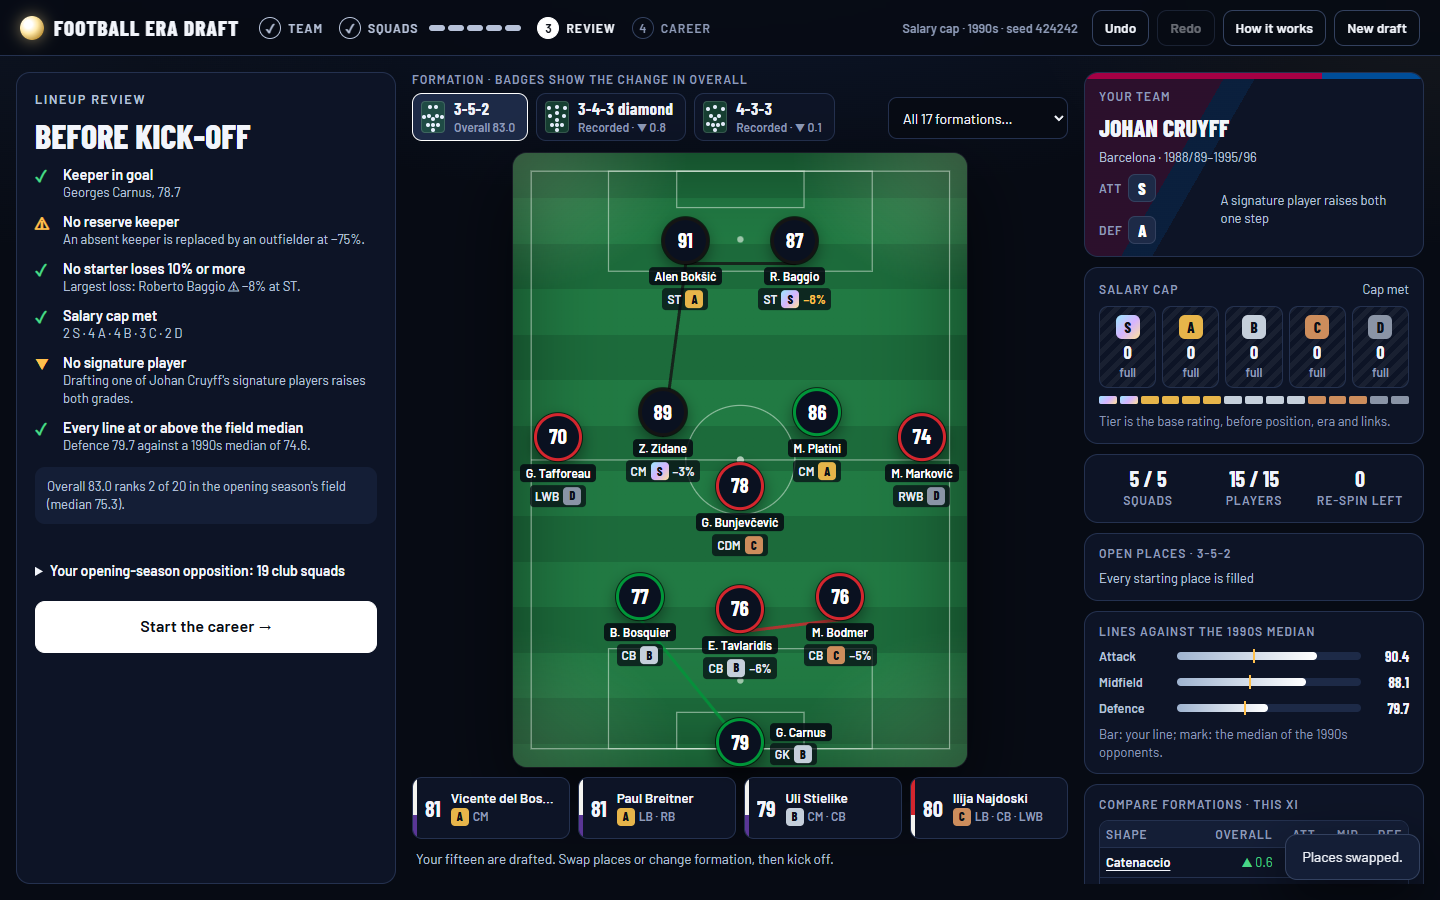
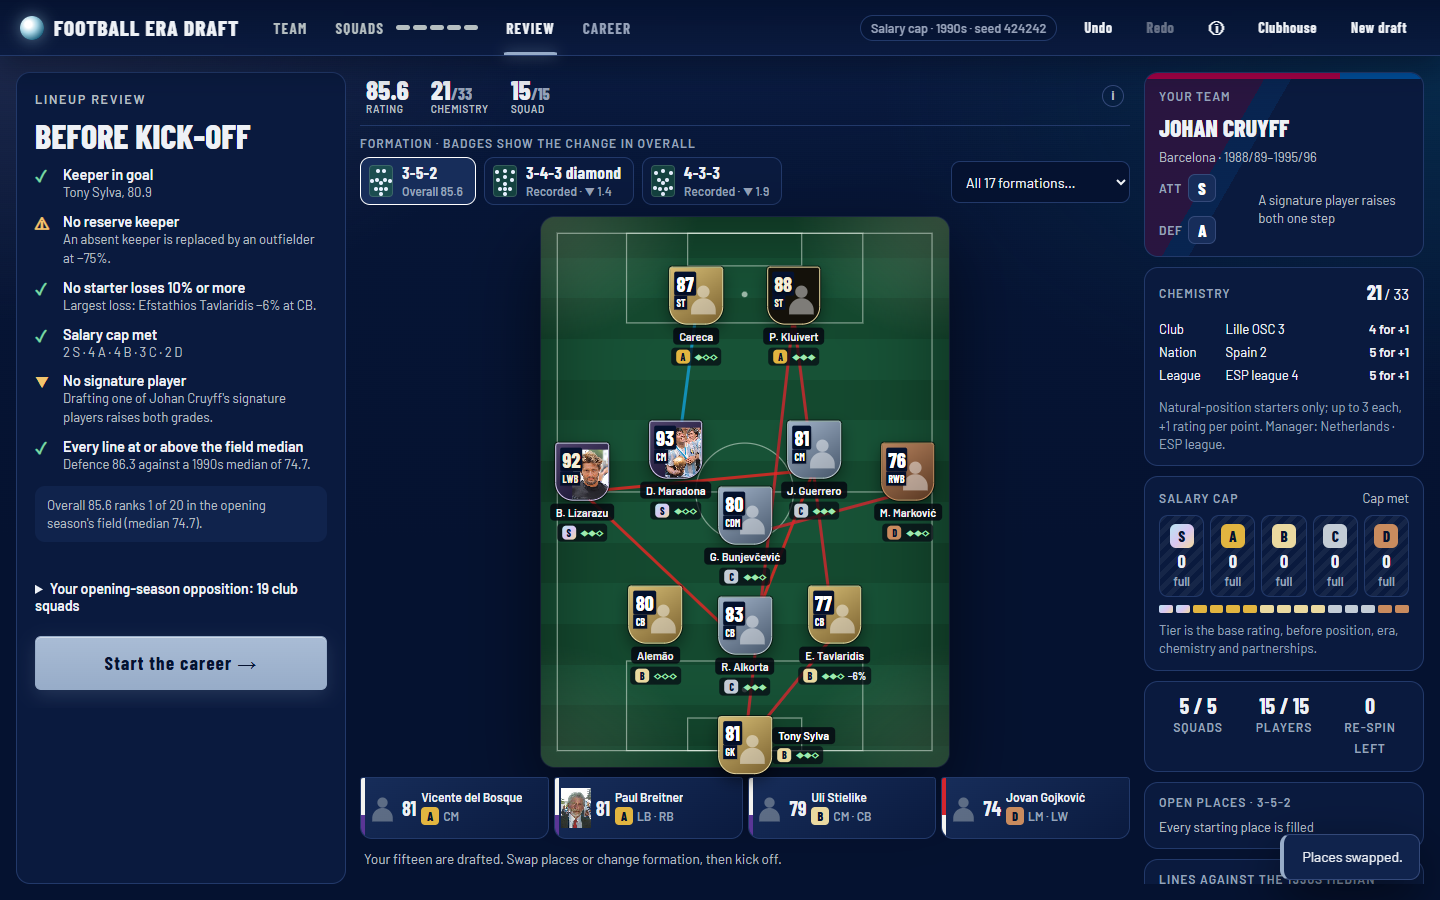
Add mode menus and the full-screen Clubhouse with browser coverage

diff --git a/app/ui/lobby.js b/app/ui/lobby.js
@@ -17,12 +17,14 @@ export function intro() {
   const { G, D, cap } = U, w = wk();
   const cards = ART.filter(([p, k]) => G.cards[k]?.some(c => c.p === p))
     .map(([p, k, a], i) => `<div class="fan" style="--a:${a}deg;--i:${i}">${vcard(hydrate(G, { k, p }))}</div>`).join('');
-  return `<section class="land">
-    <div class="land-copy">
-      <p class="eyebrow">A draft through eight decades</p>
-      <h1>Build an<br>era XI.</h1>
-      <p class="lede">Choose a manager at one of his clubs. Draw five historical squads, take three players from each and set your formation as the draft unfolds. Then lead your club through the decade in its real league, chasing cups and earning the board's trust.</p>
-      <form id="start-form" class="start" novalidate>
+  return `<section class="land mode-hero"><div class="land-copy"><p class="eyebrow">Football Era Draft · 1950—2020</p><h1>Greatness.<br>Across eras.</h1><p class="lede">Your manager. Your fifteen. A decade to make history.</p><p class="small">Draft football's past into your next great team.</p></div><div class="land-art" aria-hidden="true" inert><div class="land-pitch">${pitch(G.formations['4-3-3'].slots.map(([s,x,y])=>({s,x,y})),[],{mode:'view',sm:true})}</div><div class="fans">${cards}</div></div></section>
+  <section class="mode-menu" aria-label="Choose a mode">
+    <button class="mode-tile mode-career" id="mode-career" type="button"><span class="eyebrow">01 · The long game</span><strong>Career</strong><span>Choose your era. Build a club. Chase the decade.</span><b aria-hidden="true">↗</b></button>
+    <button class="mode-tile mode-gauntlet" id="mode-gauntlet" type="button"><span class="eyebrow">02 · Survive the eras</span><strong>Era Gauntlet</strong><span>Four rounds. One boss. A new decade awaits.</span><b aria-hidden="true">↗</b></button>
+    <button class="mode-tile mode-weekly" id="weekly" type="button"><span class="eyebrow">03 · ${esc(w.id)}</span><strong>Weekly</strong><span>${w.D}s · One seed. Your choices.</span><b aria-hidden="true">↗</b></button>
+    <button class="mode-tile mode-clubhouse" data-club-open="home" type="button"><span class="eyebrow">04 · Your football home</span><strong>Clubhouse</strong><span>Build freely. Collect cards. Solve daily puzzles.</span><b aria-hidden="true">↗</b></button>
+  </section>
+  <details class="career-setup" id="career-setup" ${U.setup ? 'open' : ''}><summary>Career &amp; Gauntlet setup <span>Decade · Rules · Seed</span></summary><div class="setup-body"><form id="start-form" class="start" novalidate>
         <fieldset class="eras"><legend class="lbl">Career decade · your league and rivals come from here</legend>
           <div class="era-tools"><button id="random-decade" type="button" class="btn q sm" data-era="random" aria-pressed="${D === 'random'}">Random decade</button><small class="small">${D === 'random' ? 'Your seed chooses the decade.' : 'Choose an era or let the seed decide.'}</small></div>
           <div class="tiles">${DECADES.map(d => `<button type="button" class="tile" data-era="${d}" aria-pressed="${D === d}" style="--era:var(--era-${d})"><b>${d}s</b><small>${ERA[d]}</small></button>`).join('')}</div>
@@ -36,21 +38,11 @@ export function intro() {
           <button class="btn big" type="submit">Enter the draft →</button>
         </div>
       </form>
-    </div>
-    <div class="land-art" aria-hidden="true" inert><div class="land-pitch">${pitch(G.formations['4-3-3'].slots.map(([s, x, y]) => ({ s, x, y })), [], { mode: 'view', sm: true })}</div><div class="fans">${cards}</div></div>
-  </section>
   <section class="weekly gauntlet-entry" aria-label="Era Gauntlet"><div><p class="lbl">Era Gauntlet · a roguelike run</p><p class="wk">Draft, then survive decade after decade</p>
     <p class="small">Draft fifteen from the decades near your map's first stop, then play four six-match rounds and a two-legged boss in every decade, with rewards, transfers and board patience between. Uses the rules and seed above.</p></div>
     <div class="row wrap"><label class="field"><span class="lbl">Map</span><select id="gauntlet-map">${Object.entries(MAPS).map(([k, m]) => `<option value="${k}" ${k === 'reverse' ? 'selected' : ''}>${esc(m.nm)} · ${m.D[0]}s first · draft ${Math.max(1950, m.D[0] - POOL)}s–${Math.min(2020, m.D[0] + POOL)}s</option>`).join('')}</select></label>
     <button class="btn" id="gauntlet-start" type="button">Start the Gauntlet draft →</button></div></section>
-  <section class="weekly" aria-label="Weekly challenge"><div><p class="lbl">This week · ${esc(w.id)}</p><p class="wk">${w.D}s season · one seed for everyone</p>
-    <p class="small">Same managers and first squad for every player this week, under Salary cap. Your picks steer which clubs follow.</p></div>
-    <button class="btn q" id="weekly" type="button">Play the weekly challenge</button></section>
-  <section class="club-entry" aria-label="Explore more football"><div><p class="eyebrow">Beyond the draft</p><h2>Your football clubhouse</h2><p class="small">Free squad building, daily puzzles and a personal history across the eras.</p></div><div class="row wrap"><button class="btn q sm" type="button" data-club-open="sandbox">Sandbox</button><button class="btn q sm" type="button" data-club-open="database">Player database</button><button class="btn q sm" type="button" data-club-open="minis">Mini-games</button><button class="btn q sm" type="button" data-club-open="weekly">Weekly archive</button><button class="btn sm" type="button" data-club-open="home">Open clubhouse</button></div></section>
-  <ol class="how" aria-label="How a draft works"><li><b>Team</b><span>A manager at one of his clubs sets grades and signature players.</span></li>
-    <li><b>Five squads</b><span>Three players from each historical club squad, inside the salary cap.</span></li>
-    <li><b>Lineup</b><span>Any formation, any placement; ratings follow each player's position fit.</span></li>
-    <li><b>Career</b><span>Real league seasons and cup races across the decade, with transfer windows between halves.</span></li></ol>
+  </div></details>
   <p class="replay"><label>Have a saved replay? <input id="import-replay" type="file" accept="application/json,.json"></label></p>`;
 }
 

diff --git a/app/ui/clubhouse.js b/app/ui/clubhouse.js
@@ -44,9 +44,9 @@ export function mountClubhouse(U, { notice, weekly }) {
   const current = () => mini ? P.sessions[mini] : null;
 
   function home() {
-    const t=totals(P), ach=achievements(P);
+    const t=totals(P), ach=achievements(P), unlocked=ach.filter(a=>a.unlocked).length;
     return `${top('Build freely, explore the archive and keep your football history. No account required.')}<div class="club-metrics">${metric(t.drafts,'Drafts')}${metric(t.seasons,'League seasons')}${metric(t.titles,'Trophies')}${metric(ach.filter(a=>a.unlocked).length,'Achievements')}</div>
-    <div class="club-grid">${Object.entries(pages).filter(([k])=>k!=='home').map(([k,n])=>`<article class="challenge-card"><h2>${n}</h2><p class="small">${{sandbox:'Choose any fifteen cards and test them across eras.',sbc:'EA-style squad puzzles: meet chemistry, nation and rating targets to unlock reward cards.',database:'Search players, club spells, positions, tiers and tags.',stats:'Your matches, goals, trophies and favourite players.',records:'Compare completed seasons by mode and era.',achievements:'Football milestones with visible progress.',collection:'Win silverware to unlock the exact cards in your squad.',minis:'Four daily puzzles, streaks and unlimited practice.',weekly:'Replay this week or any of the past twelve weeks.',settings:'Appearance, motion, roster sort and profile backups.'}[k]}</p>${btn('Open',`data-club-page="${k}"`)}</article>`).join('')}</div>`;
+    <div class="club-grid">${Object.entries(pages).filter(([k])=>k!=='home').map(([k,n])=>`<article class="challenge-card club-feature feature-${k}"><span class="club-glyph" aria-hidden="true">${{sandbox:"XI",sbc:"◆",database:"1950—2020",stats:"90′",records:"#1",achievements:"★",collection:"S / A",minis:"?",weekly:"W",settings:"⚙"}[k]}</span><h2>${n}</h2><p class="small">${{sandbox:'Choose any fifteen cards and test them across eras.',sbc:'EA-style squad puzzles: meet chemistry, nation and rating targets to unlock reward cards.',database:'Search players, club spells, positions, tiers and tags.',stats:'Your matches, goals, trophies and favourite players.',records:'Compare completed seasons by mode and era.',achievements:'Football milestones with visible progress.',collection:'Win silverware to unlock the exact cards in your squad.',minis:'Four daily puzzles, streaks and unlimited practice.',weekly:'Replay this week or any of the past twelve weeks.',settings:'Appearance, motion, roster sort and profile backups.'}[k]}</p>${['achievements','collection'].includes(k)?`<label class="small">${k==='achievements'?`${unlocked}/${ach.length} milestones`:`${collection(P).size}/${A.length} cards`}<progress max="${k==='achievements'?ach.length:A.length}" value="${k==='achievements'?unlocked:collection(P).size}" aria-label="${n} progress"></progress></label>`:''}${btn('Open',`data-club-page="${k}"`)}</article>`).join('')}</div>`;
   }
 
   function filters() {
@@ -88,7 +88,7 @@ export function mountClubhouse(U, { notice, weekly }) {
   function squadChallenges() {
     const done=sbcDone(), Q=challenges();
     return `${top(`${Q.filter(c=>done.has(c.id)).length} / ${Q.length} completed. Build a starting eleven in the sandbox that meets every requirement; each challenge unlocks its reward card once. Chemistry follows the lineup rules: natural positions only.`)}
-      <div class="club-grid">${Q.map(c=>{const ref=Sbc.reward(G,A,c), x=by.get(refid(ref));return `<article class="challenge-card ${done.has(c.id)?'club-earned':''}"><p class="lbl">${c.wk?`Weekly · ${esc(c.wk)}`:'Permanent'}${done.has(c.id)?' · Completed':''}</p><h2>${esc(c.nm)}</h2><ul class="sbc-req">${c.req.map(([k,n,v])=>`<li>${esc(Sbc.R[k].tx(n,v,G))}</li>`).join('')}</ul><p class="small">Reward: ${esc(cardLabel(x))} · ${number(x.r)}</p>${done.has(c.id)?'':btn('Build in sandbox',`data-sbc-build="${esc(c.id)}"`,false)}</article>`;}).join('')}</div>`;
+      <div class="club-grid">${Q.map(c=>{const ref=Sbc.reward(G,A,c), x=by.get(refid(ref));return `<article class="challenge-card ${done.has(c.id)?'club-earned':''}"><p class="lbl">${c.wk?`Weekly · ${esc(c.wk)}`:'Permanent'}${done.has(c.id)?' · Completed':''}</p><h2>${esc(c.nm)}</h2><ul class="sbc-req">${c.req.map(([k,n,v])=>`<li>${esc(Sbc.R[k].tx(n,v,G))}</li>`).join('')}</ul><div class="sbc-reward">${vcard(hydrate(G,{k:`${x.q}:${x.D}`,p:x.p}))}</div><p class="small">Reward: ${esc(cardLabel(x))} · ${number(x.r)}</p>${done.has(c.id)?'':btn('Build in sandbox',`data-sbc-build="${esc(c.id)}"`,false)}</article>`;}).join('')}</div>`;
   }
   function sbcPanel(s) {
     const c=challenges().find(c=>c.id===sbcId); if(!c)return '';

diff --git a/app/ui/desk.js b/app/ui/desk.js
@@ -176,7 +176,7 @@ export function desk() {
       <button class="btn q sm" type="button" id="form-cancel">Keep ${esc(S.f)}</button><button class="btn sm" type="button" id="form-apply">Apply ${esc(P.f)}</button></div>` : '';
   return `<div class="ws ${rv ? 'rv' : ''}" data-view="${U.view}">
     <div class="seg2 mob" role="tablist" aria-label="Workspace view"><button type="button" role="tab" data-view="squad" aria-selected="${U.view === 'squad'}">${rv ? 'Review' : `Squad${S.combo ? ` · ${counts().All}` : ''}`}</button><button type="button" role="tab" data-view="lineup" aria-selected="${U.view === 'lineup'}">Lineup · ${n}/15</button></div>
-    <section class="col squad pn" id="squad" aria-label="${rv ? 'Lineup review' : 'Squad'}" tabindex="-1">${U.pos != null ? `<div class="position-filter"><b>${SH[U.pos].s} shortlist</b><button class="link" id="clear-filters" type="button">Show all players</button></div>` : ''}${rv ? review(T, Q) : squad()}</section>
+    <section class="col squad pn" id="squad" aria-label="${rv ? 'Lineup review' : 'Squad'}" tabindex="-1">${U.pos != null ? `<div class="position-filter"><b>${SH[U.pos].s} shortlist</b><button class="link" id="clear-position" type="button">Show all players</button></div>` : ''}${rv ? review(T, Q) : squad()}</section>
     <section class="col lineup" id="pitch" aria-label="Lineup" tabindex="-1"><div class="squad-metrics"><span><b>${n ? num(Q.ovr) : '–'}</b> Rating</span><span><b>${Q.chem.total}<small>/33</small></b> Chemistry</span><span><b>${n}<small>/15</small></b> Squad</span>${tip('Ratings include position fit, era, chemistry and partnerships. Choose an empty position to shortlist suitable players.', 'r')}</div>${bar(T, Q, lock)}${pvb}
       <div class="pitch-wrap">${pitch(VS, cells, { mode: 'play', links: links(VS, VQ.xi.map(p => p.c)), ghosts, arrows, entry, lock: lock || !!P, label: `Your ${VS === SH ? S.f : P.f}` })}</div>
       <div class="bn" role="group" aria-label="Bench">${bench}</div>

diff --git a/README.md b/README.md
@@ -6,6 +6,18 @@ Football Era Draft is a draft game about building a team across generations. Mar
 
 ![Lineup review before kick-off: fifteen drafted players, salary-cap allowances and formation controls.](docs/images/football-era-draft.png)
 
+## Choose your mode
+
+Career, Era Gauntlet, Weekly and Clubhouse have their own menu tiles. Open Career or Gauntlet setup to choose the decade, rules and replay seed. The night-sky palette takes its blue, gray and ecru tones from Sanzo Wada combinations; the shield cards and club crests use original styling.
+
+On the draft screen, choose an empty pitch position to shortlist players who fit it, or select a player first and compare his possible places. The pitch and substitutes use compact cards; the header shows squad rating and chemistry. Arrow keys browse players and positions, Escape cancels a selection, R re-spins when available, and Ctrl+Z undoes a lineup edit. Q/E changes career tabs.
+
+The career hub brings together the next league fixture, standings, squad, board inbox, objectives and transfer market. Winter targets and outgoing players can be selected as cards; the comparison shows the effect before a signing is confirmed. Summer arrivals retain their card comparisons and distinct departure requirements.
+
+Each half-season opens a match centre with the saved goal times, scorers and assists. Pause, advance to full time, continue to the next match, or skip playback. Results are saved before playback starts, so skipping or reloading keeps the same season. Reduced motion shows each final score immediately. “Your standout” reflects recorded goals and assists; it grants no extra award. Gauntlet rounds retain their score summaries because those records contain no goal times.
+
+![Career hub with the next league fixture, board inbox and season objectives.](docs/images/football-era-career.png)
+
 ## Five clubs supply your fifteen players
 
 The **Clubhouse** button opens the account-free extras from any stage of the game. Browse all 52,976 club-era cards by player, club, decade, position, tier or tag; inspect their rating sources and pin up to three versions for comparison. Sandbox lets you choose any fifteen distinct players, change their formation, manager and simulation era, fill empty places automatically and play a league and European Cup. Export a sandbox squad or send its Classic team code to a friend.
